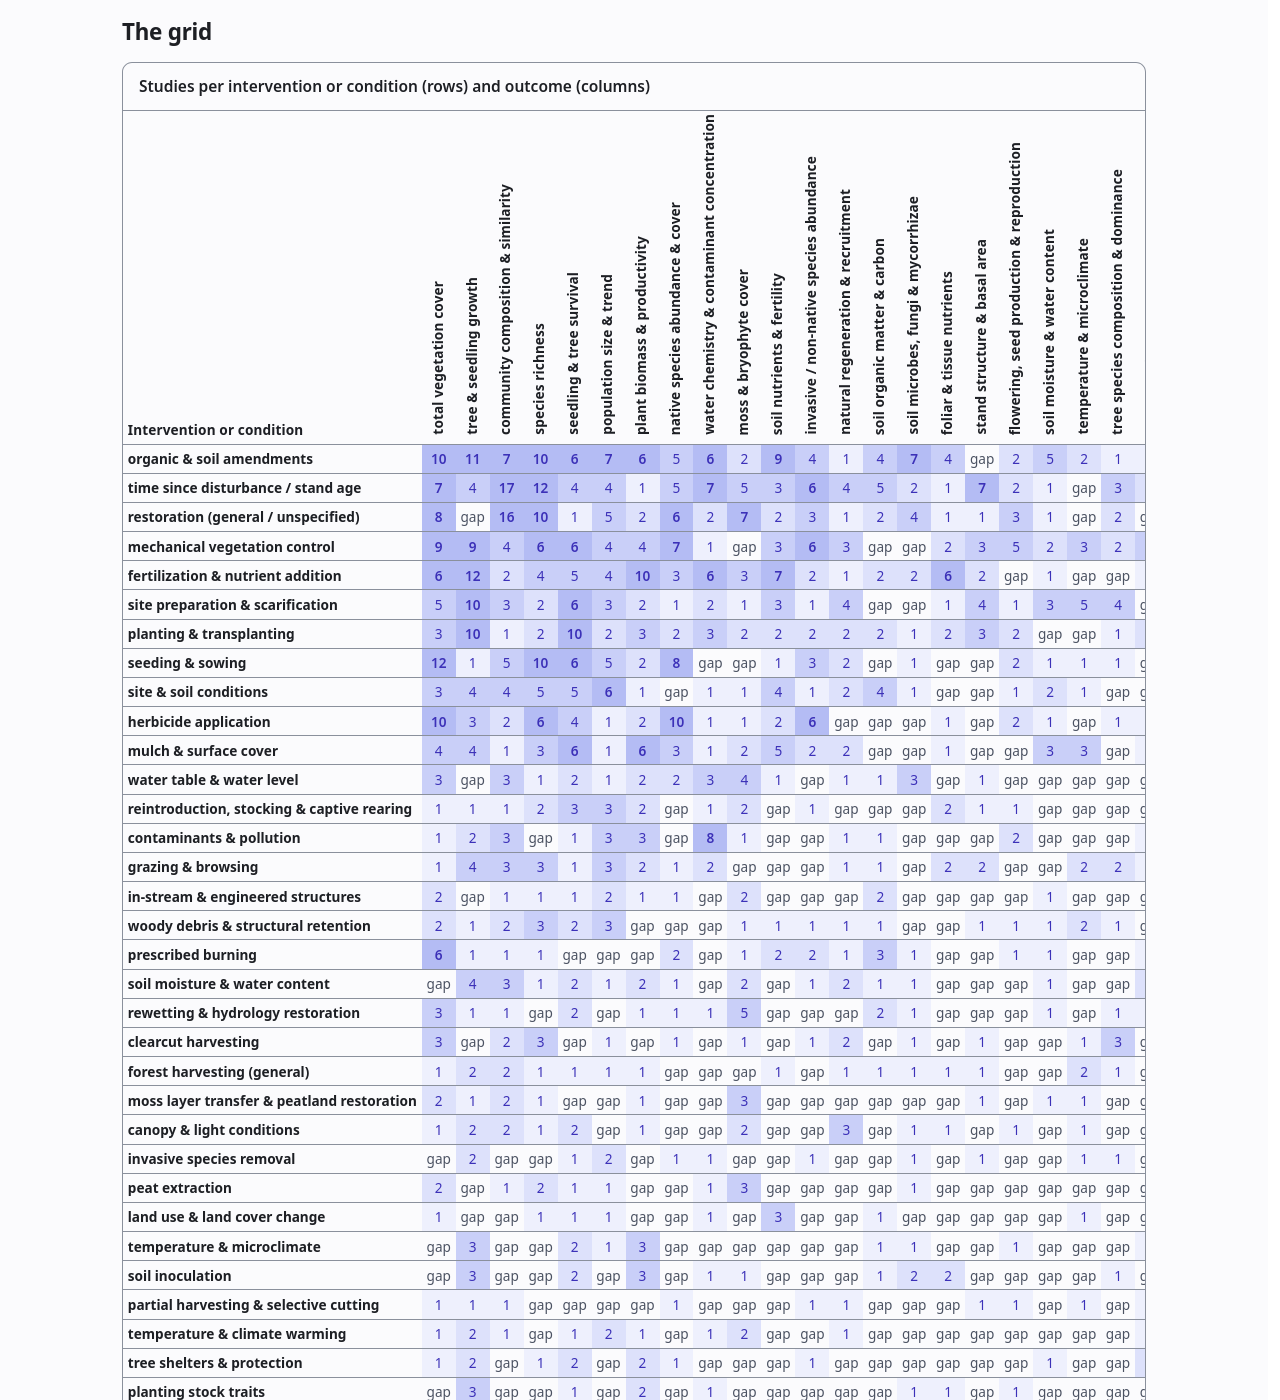
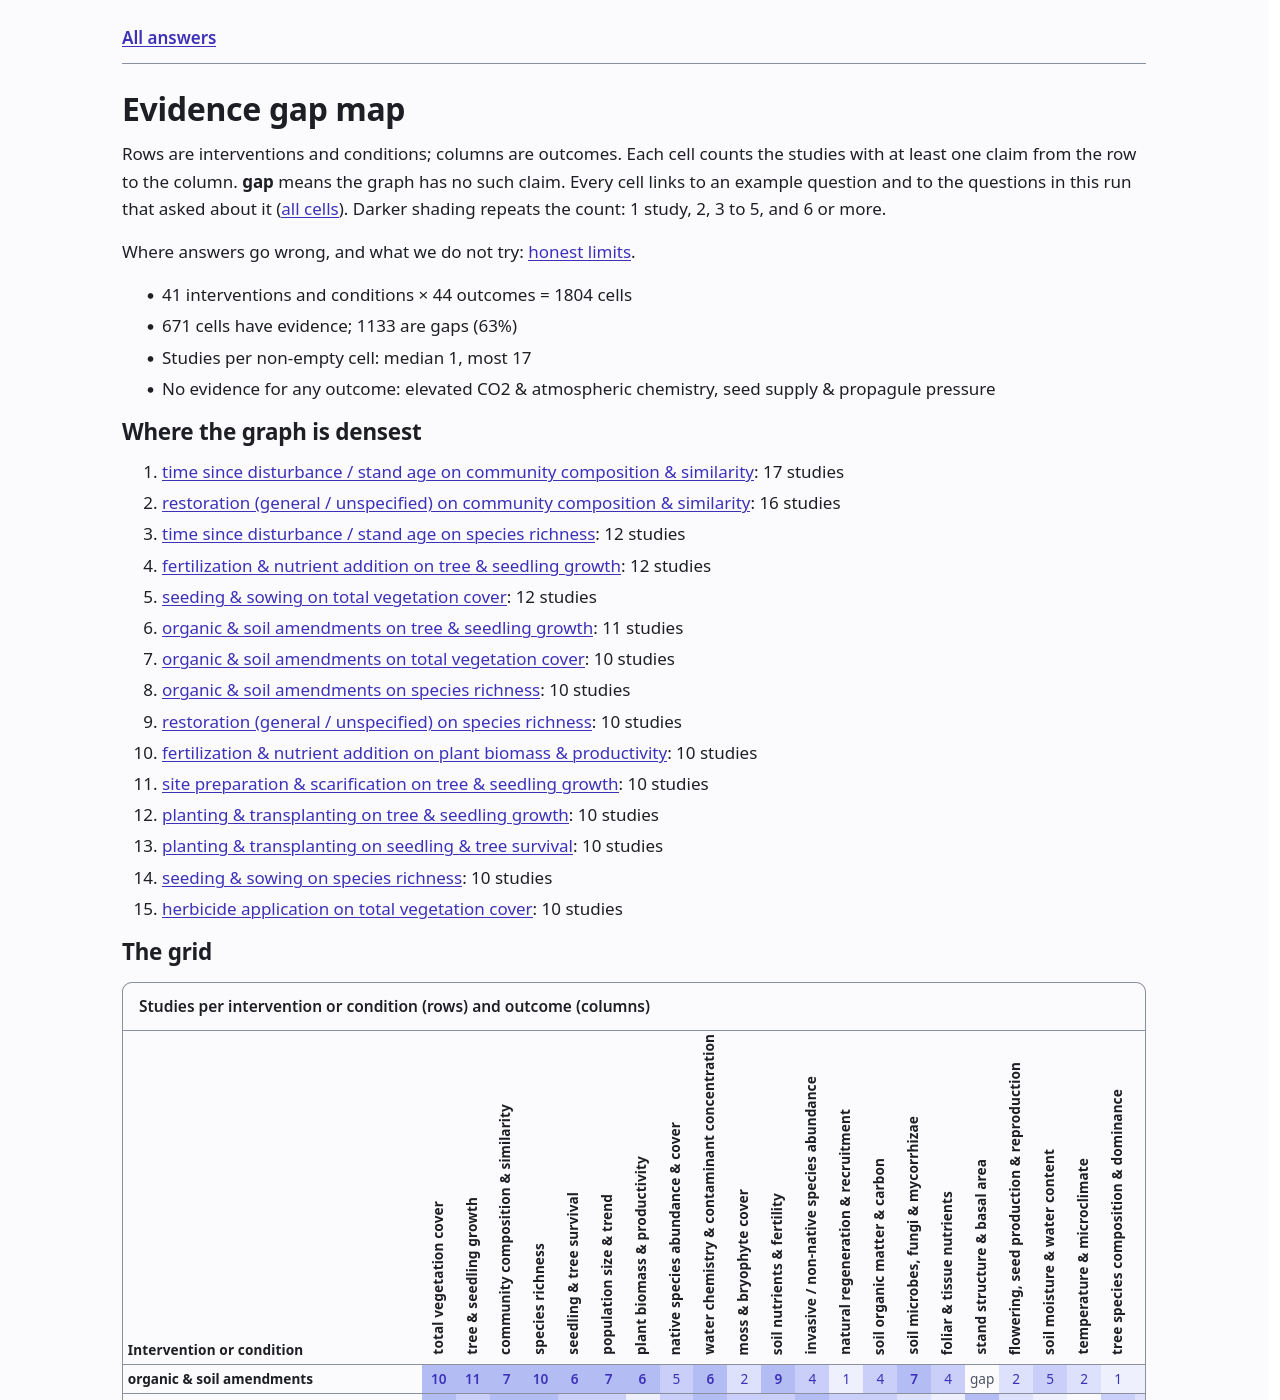
docs(img): refresh README screenshots at HEAD; mark binary assets in .gitattributes
Adds build.py --readme to regenerate docs/img/{evidence,gapmap,limits}.png from a fresh 0-call run, so the
screenshots can be kept current after each UI change. PNG/PDF/font files are marked binary; the slides'
vendored packages and fonts are linguist-vendored.

Changed region(s): [[0.0938, 0.0, 0.9062, 1.0]]

diff --git a/experiments/showcase/build.py b/experiments/showcase/build.py
@@ -10,6 +10,7 @@ Firefox screenshots (1280 and 320 px, light and dark) under outputs/showcase/sho
 of the examples against the committed snapshot.json (--update rewrites it). 0 LLM calls unless --ask.
 
     python experiments/showcase/build.py [--shots] [--update] [--ask "What effect does X have on Y?"]
+    python experiments/showcase/build.py --readme   # regenerate the committed README screenshots in docs/img/
 """
 
 from __future__ import annotations
@@ -34,6 +35,8 @@ from camoreasoning.strategies.grader.rubric import is_associational
 
 HERE = Path(__file__).parent
 SNAPSHOT = HERE / "snapshot.json"
+IMG = ROOT / "docs" / "img"  # README screenshots, committed
+README_EVIDENCE_ID = "C-C0004"
 SHOW = OUTPUTS_DIR / "showcase"
 FIELDS = ("status", "direction", "certainty", "confidence", "edge_ids", "answer", "searched_for")
 DIRECTIONS = ("increase", "decrease", "mixed", "no_effect", "unclear")
@@ -134,24 +137,60 @@ def pick(rows, ctx):
     return picks
 
 
+def _profile(prof: str, dark: bool) -> None:
+    Path(prof, "user.js").write_text(
+        f'user_pref("ui.systemUsesDarkTheme", {int(dark)});\n'
+        f'user_pref("layout.css.prefers-color-scheme.content-override", {0 if dark else 1});\n'
+    )
+
+
+def _shoot(ff: str, prof: str, page: Path, out: Path, width: int, height: int) -> None:
+    cmd = [ff, "--headless", "--profile", prof, "--no-remote", f"--window-size={width},{height}"]
+    cmd += ["--screenshot", str(out), page.resolve().as_uri()]
+    subprocess.run(cmd, capture_output=True, timeout=60, check=False)
+
+
 def screenshot(pages: list[Path], shots: Path) -> None:
     ff = shutil.which("firefox")
     if not ff:
         print("firefox not found; skipping --shots", file=sys.stderr)
         return
     shots.mkdir(parents=True, exist_ok=True)
-    for scheme, dark in (("light", 0), ("dark", 1)):
+    for scheme, dark in (("light", False), ("dark", True)):
         with tempfile.TemporaryDirectory() as prof:
-            Path(prof, "user.js").write_text(f'user_pref("ui.systemUsesDarkTheme", {dark});\n'
-                                             'user_pref("layout.css.prefers-color-scheme.content-override", '
-                                             f"{0 if dark else 1});\n")  # fmt: skip
+            _profile(prof, dark)
             for page in pages:
                 for width in (1280, 320):
-                    out = shots / f"{page.stem}.{scheme}.{width}.png"
-                    cmd = [ff, "--headless", "--profile", prof, "--no-remote", f"--window-size={width},2400"]
-                    cmd += ["--screenshot", str(out), page.resolve().as_uri()]
-                    subprocess.run(cmd, capture_output=True, timeout=60, check=False)
+                    _shoot(ff, prof, page, shots / f"{page.stem}.{scheme}.{width}.png", width, 2400)
     print(f"shots: {len(list(shots.glob('*.png')))} png in {shots.relative_to(ROOT)}")
+
+
+def readme_shots() -> int:
+    """Regenerate the README screenshots in docs/img/ (committed) from a fresh run at HEAD's defaults.
+
+    Light scheme, 1280 x 1400, the top of each page: evidence.png is the page of README_EVIDENCE_ID (a mixed,
+    two-study class question), gapmap.png and limits.png come from the same run. 0 LLM calls."""
+    ff = shutil.which("firefox")
+    if not ff:
+        print("firefox not found; cannot regenerate docs/img", file=sys.stderr)
+        return 1
+    gold = {g.id: g for g in load_devsets([ROOT / "experiments/devsets/class_gold.yaml"], split="dev")}
+    run = OUTPUTS_DIR / "readme"
+    if run.exists():
+        shutil.rmtree(run)
+    run.mkdir(parents=True)
+    qfile = run / "questions.yaml"
+    q = gold[README_EVIDENCE_ID]
+    qfile.write_text(yaml.safe_dump({"questions": [{"id": q.id, "question": q.question}]}, sort_keys=False))
+    summary = run_file(qfile, run / "answers.json")
+    pages = run / "outputs"
+    targets = {"evidence": pages / f"{q.id}.html", "gapmap": pages / "gapmap.html", "limits": pages / "limits.html"}
+    with tempfile.TemporaryDirectory() as prof:
+        _profile(prof, dark=False)
+        for name, page in targets.items():
+            _shoot(ff, prof, page, IMG / f"{name}.png", 1280, 1400)
+    print(f"docs/img: {', '.join(f'{n}.png' for n in targets)} from {q.id} ({summary.get('calls', 0)} LLM calls)")
+    return 0
 
 
 def diff(current: dict, update: bool) -> int:
@@ -177,7 +216,10 @@ def main() -> int:
     ap.add_argument("--shots", action="store_true", help="headless Firefox screenshots, light/dark x 1280/320")
     ap.add_argument("--update", action="store_true", help="rewrite snapshot.json from this run")
     ap.add_argument("--ask", metavar="QUESTION", help="also run ./ask.sh on QUESTION (1 LLM call)")
+    ap.add_argument("--readme", action="store_true", help="only regenerate the README screenshots in docs/img/")
     args = ap.parse_args()
+    if args.readme:
+        return readme_shots()
 
     rows, ctx, pool_calls = pool()
     picks = pick(rows, ctx)

diff --git a/experiments/showcase/README.md b/experiments/showcase/README.md
@@ -7,6 +7,7 @@ python experiments/showcase/build.py            # ~1 s, 0 LLM calls
 python experiments/showcase/build.py --shots    # + headless Firefox PNGs: light/dark x 1280/320 px (a few minutes)
 python experiments/showcase/build.py --update   # accept the current answers as the new snapshot
 python experiments/showcase/build.py --ask "How do I control garlic mustard?"   # + the ask.sh page (1 LLM call)
+python experiments/showcase/build.py --readme   # regenerate the committed README screenshots in docs/img/
 ```
 
 How it works:
@@ -23,3 +24,5 @@ The run writes the following under `outputs/showcase/`:
 Each run prints a field-level diff against [`snapshot.json`](snapshot.json): status, direction, certainty, confidence, edge_ids, answer and searched_for. An empty diff means the change didn't move any visible answer. When the picks change (for example, a fix makes a "wrong" example right), the diff shows it as an id removed and an id added.
 
 After a UI change, the loop is: run `build.py --shots`, read the diff, look at the pages or shots, then run `python scripts/a11y_audit.py outputs/showcase/outputs` and `mise run check`.
+
+The README screenshots (`docs/img/*.png`) are committed so they render on GitHub with no network fetch. `--readme` regenerates them from a fresh run at the current defaults: the light scheme at 1280 x 1400 px, with `evidence.png` showing the page for `C-C0004`. Re-run it after any change to the UI or the answer text, then commit the PNGs.
